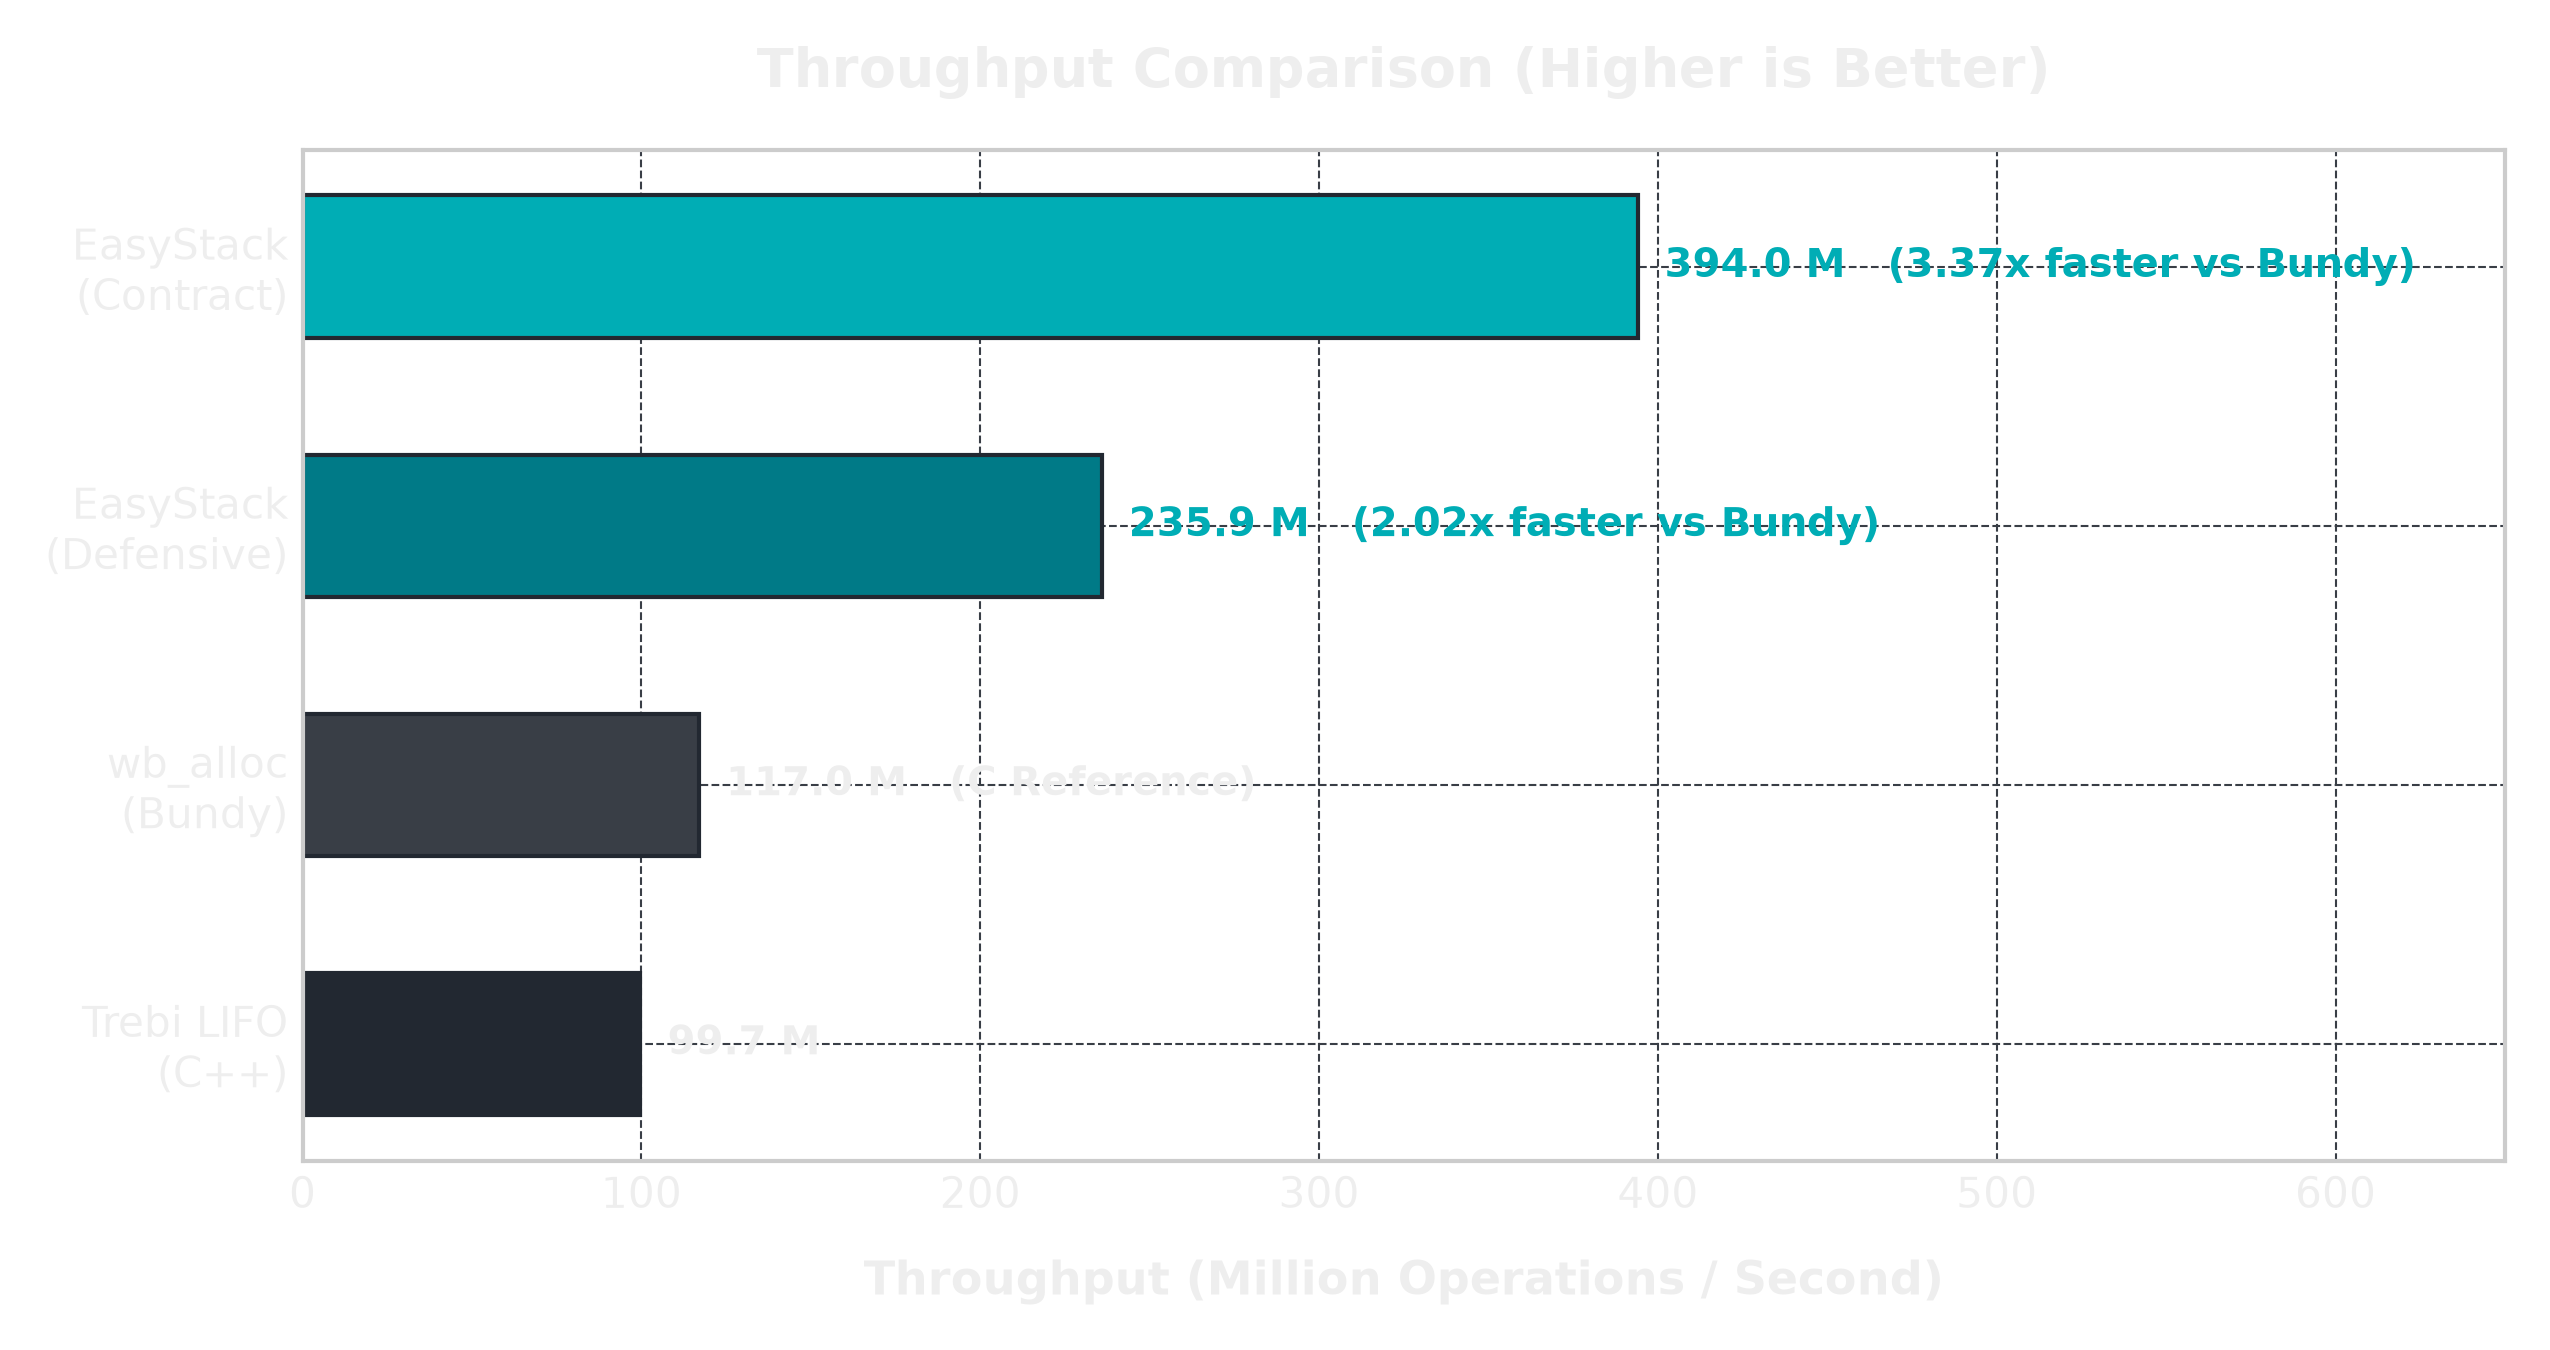
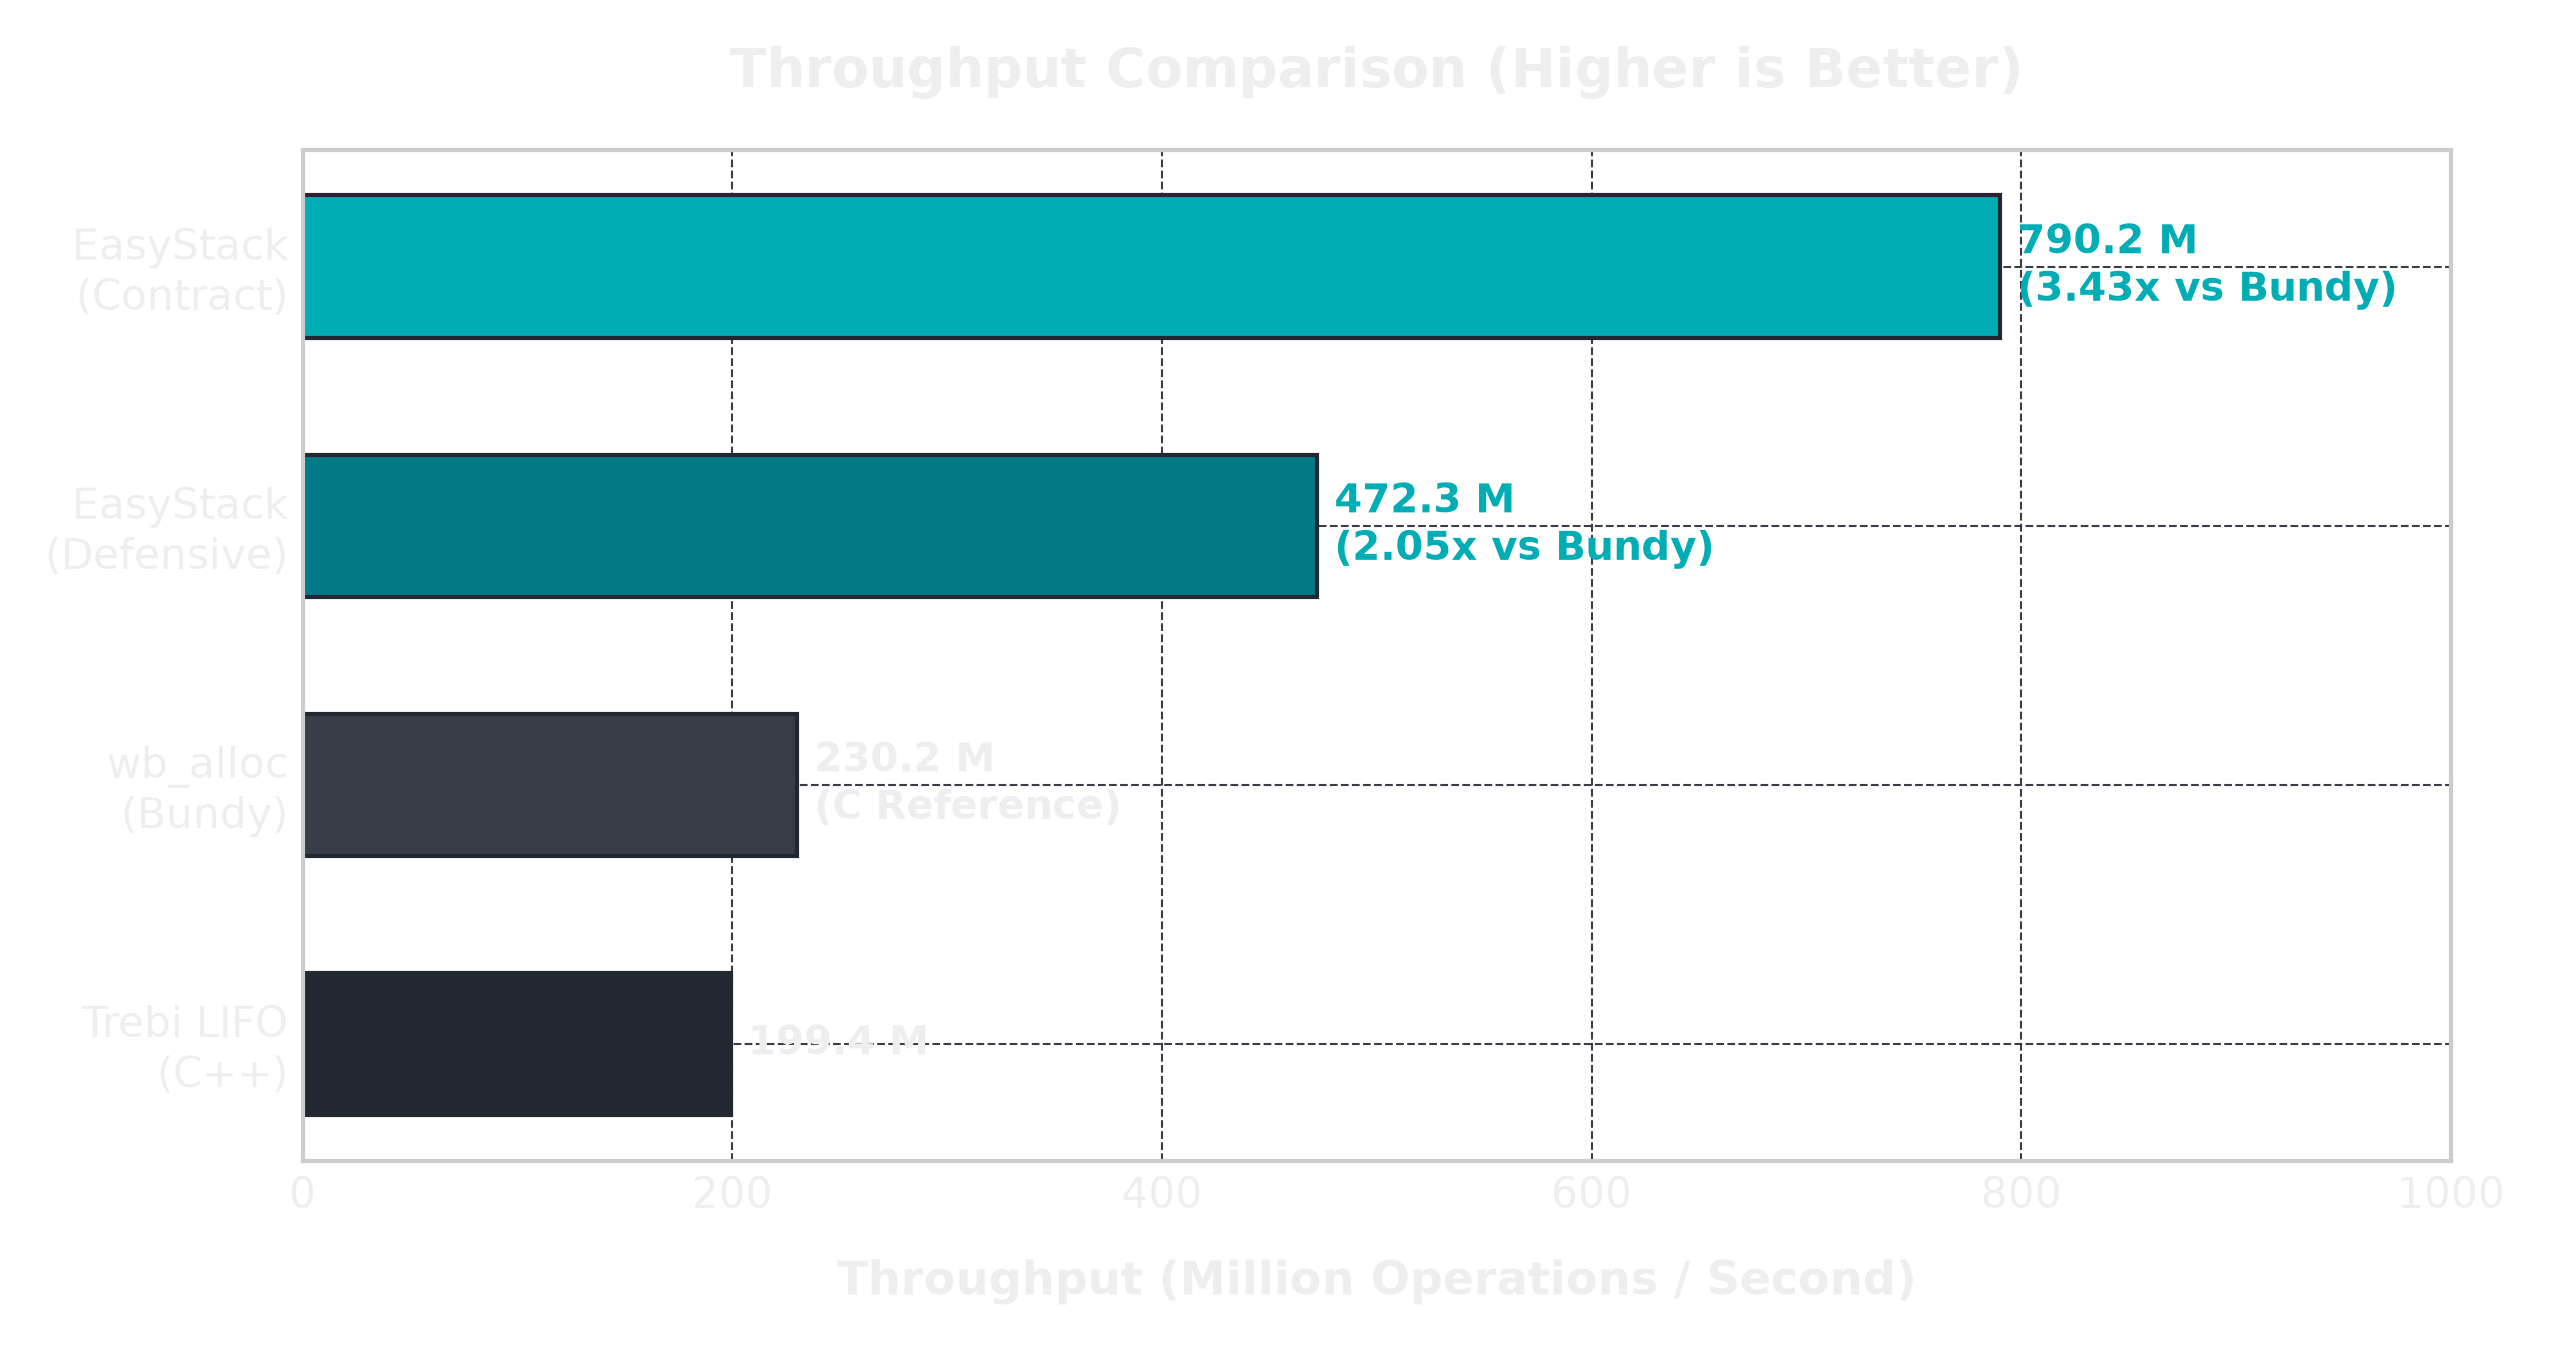
bench: fix operation count and clean up header
Oops, I was underreporting the benchmark throughput by exactly 2x because
I forgot that freeing memory is also an allocator operation. Math is hard.

- Update throughput multiplier from 18.0 to 36.0 (18 allocs + 18 frees)
- Regenerate performance charts with correct throughput (now up to 790M ops/sec!)
- Remove unused 'ESTACK_DEFAULT_ALIGNMENT' macro and duplicate checks
- Embed full MIT License and copyright block at the top of the header file
- Update tagline to "stupidly fast" in the header comment block and README

diff --git a/easy_stack.h b/easy_stack.h
@@ -3,7 +3,31 @@
 
 /*
  * Easy Stack Allocator (easy_stack.h)
- * A lightweight, platform-agnostic, and safe LIFO stack allocator for C.
+ * A stupidly fast, lightweight, platform-agnostic, and safe LIFO stack allocator for C.
+ * 
+ * ============================================================================
+ *  LICENSE: MIT
+ * ============================================================================
+ *  Copyright (c) 2026 gooderfreed
+ *
+ *  Permission is hereby granted, free of charge, to any person obtaining a copy
+ *  of this software and associated documentation files (the "Software"), to deal
+ *  in the Software without restriction, including without limitation the rights
+ *  to use, copy, modify, merge, publish, distribute, sublicense, and/or sell
+ *  copies of the Software, and to permit persons to whom the Software is
+ *  furnished to do so, subject to the following conditions:
+ *
+ *  The above copyright notice and this permission notice shall be included in all
+ *  copies or substantial portions of the Software.
+ *
+ *  THE SOFTWARE IS PROVIDED "AS IS", WITHOUT WARRANTY OF ANY KIND, EXPRESS OR
+ *  IMPLIED, INCLUDING BUT NOT LIMITED TO THE WARRANTIES OF MERCHANTABILITY,
+ *  FITNESS FOR A PARTICULAR PURPOSE AND NONINFRINGEMENT. IN NO EVENT SHALL THE
+ *  AUTHORS OR COPYRIGHT HOLDERS BE LIABLE FOR ANY CLAIM, DAMAGES OR OTHER
+ *  LIABILITY, WHETHER IN AN ACTION OF CONTRACT, TORT OR OTHERWISE, ARISING FROM,
+ *  OUT OF OR IN CONNECTION WITH THE SOFTWARE OR THE USE OR OTHER DEALINGS IN THE
+ *  SOFTWARE.
+ * ============================================================================
  *
  * Features:
  *   - O(1) Constant Time allocations and deallocations.
@@ -340,17 +364,6 @@ ESTACK_STATIC_ASSERT((ESTACK_MAGIC != 0), "ESTACK_MAGIC must be a non-zero value
  * Minimum alignment is based on the size of uintptr_t.
 */
 #define ESTACK_MIN_ALIGNMENT ((size_t)sizeof(uintptr_t))
-
-/*
- * Configuration: Default Alignment
- * Defines the default memory alignment for the easy memory allocator.
- * Default is 16 bytes, but can be customized by defining EM_DEFAULT_ALIGNMENT before including this header.
-*/
-#ifndef ESTACK_DEFAULT_ALIGNMENT
-#   define ESTACK_DEFAULT_ALIGNMENT 8
-#endif
-ESTACK_STATIC_ASSERT((ESTACK_DEFAULT_ALIGNMENT & (ESTACK_DEFAULT_ALIGNMENT - 1)) == 0, "ESTACK_DEFAULT_ALIGNMENT must be a power of two.");
-ESTACK_STATIC_ASSERT(ESTACK_DEFAULT_ALIGNMENT >= ESTACK_MIN_ALIGNMENT, "ESTACK_DEFAULT_ALIGNMENT must be at least ESTACK_MIN_ALIGNMENT.");
 
 /*
  * Bit-packing Masks and Shifts for `capacity_and_meta_size`
@@ -937,7 +950,6 @@ ESTACKDEF void *estack_alloc_aligned(EStack *ESTACK_RESTRICT stack, size_t size,
     ESTACK_CHECK((size <= capacity),                   NULL, "Internal Error: 'estack_alloc_aligned' called with size exceeding stack capacity");
     ESTACK_CHECK(alignment <= capacity,                NULL, "Internal Error: 'estack_alloc_aligned' alignment exceeds stack capacity");   
     ESTACK_CHECK(alignment >= ESTACK_MIN_ALIGNMENT,    NULL, "Internal Error: 'estack_alloc_aligned' called with too small alignment");
-    ESTACK_CHECK((size <= capacity),                   NULL, "Internal Error: 'estack_alloc_aligned' called with size exceeding stack capacity");
 
     /* 
      * WHY DOING THIS? (The Physics of Inverted Bi-Directional Layout)

diff --git a/bench/generate_chart.py b/bench/generate_chart.py
@@ -29,7 +29,7 @@ labels = [
     'wb_alloc\n(Bundy)', 
     'Trebi LIFO\n(C++)'
 ]
-throughput = [393.98, 235.86, 117.01, 99.72] 
+throughput = [790.17, 472.26, 230.24, 199.36]
 colors = [COLOR_EASY_2B, COLOR_EASY_4B, COLOR_COMPETITOR, '#222831']
 
 bars = ax.barh(labels, throughput, color=colors, height=0.55, edgecolor='#222831', linewidth=1)
@@ -44,25 +44,25 @@ ref_value = throughput[2]  # wb_alloc is the reference
 for i, bar in enumerate(bars):
     width = bar.get_width()
     
-    if i == 0:
+    if i == 0:  # EasyStack Contract
         ratio = width / ref_value
-        text = f"{width:.1f} M   ({ratio:.2f}x faster vs Bundy)"
+        text = f"{width:.1f} M\n({ratio:.2f}x vs Bundy)"
         text_color = COLOR_EASY_2B
-    elif i == 1:
+    elif i == 1:  # EasyStack Defensive
         ratio = width / ref_value
-        text = f"{width:.1f} M   ({ratio:.2f}x faster vs Bundy)"
+        text = f"{width:.1f} M\n({ratio:.2f}x vs Bundy)"
         text_color = COLOR_EASY_2B
-    elif i == 2:
-        text = f"{width:.1f} M   (C Reference)"
+    elif i == 2:  # wb_alloc (Bundy)
+        text = f"{width:.1f} M\n(C Reference)"
         text_color = TEXT_COLOR
-    else:
+    else:  # Trebi (C++)
         text = f"{width:.1f} M"
         text_color = TEXT_COLOR
         
     ax.text(width + 8, bar.get_y() + bar.get_height()/2, text, 
             va='center', ha='left', color=text_color, fontsize=9.5, fontweight='bold')
 
-ax.set_xlim(0, 650)
+ax.set_xlim(0, 1000)
 plt.title('Throughput Comparison (Higher is Better)', color=TEXT_COLOR, fontsize=13, fontweight='bold', pad=15)
 plt.tight_layout()
 plt.savefig('throughput_chart.png', dpi=300, transparent=True)

diff --git a/bench/benchmark.cpp b/bench/benchmark.cpp
@@ -18,7 +18,7 @@
 #endif
 
 // Configure EasyStack directly
-#define ESTACK_SAFETY_POLICY ESTACK_POLICY_DEFENSIVE
+#define ESTACK_SAFETY_POLICY ESTACK_POLICY_CONTRACT
 #define EASY_STACK_IMPLEMENTATION
 #include "easy_stack.h"
 
@@ -277,8 +277,8 @@ int main() {
     double best_wb = get_min_time(times_wb);
     double best_trebi = get_min_time(times_trebi);
 
-    // Calculation of allocator throughput (each iteration does exactly 18 allocator calls)
-    const double total_ops_per_round = (double)pattern_iterations * 18.0;
+    // Calculation of allocator throughput (each iteration does exactly 36 allocator calls)
+    const double total_ops_per_round = (double)pattern_iterations * 36.0;
 
     std::cout << "=== Results (Best of " << ROUNDS << " runs, " << pattern_iterations << " iterations/run) ===\n";
     std::printf("EasyStack:        %.4f sec (%.2f million ops/sec)\n", 

diff --git a/README.md b/README.md
@@ -25,7 +25,7 @@
 
 <br/>
 
-**An extremely fast, header-only, platform-agnostic, and safe LIFO stack allocator utilizing an inverted bi-directional buffer layout with dynamic metadata scaling.**
+**An absurdly fast, header-only, platform-agnostic, and safe LIFO stack allocator utilizing an inverted bi-directional buffer layout with dynamic metadata scaling.**
 
 ## TL;DR
 
@@ -55,7 +55,7 @@
 
 ## Part of the EasyMem Ecosystem
 
-While **EasyStack** is a powerful standalone allocator, it was originally designed and battle-tested as a core modular component of the `easy_memory` project — a full-fledged, general-purpose memory management system.
+While `easy_stack` is a powerful standalone allocator, it was originally designed and battle-tested as a core modular component of the `easy_memory` project — a full-fledged, general-purpose memory management system.
 
 If your project requires **only** a fast LIFO stack, this library is the perfect, laser-focused tool.
 
@@ -129,9 +129,9 @@ To verify execution speed and memory overhead, `easy_stack` was benchmarked agai
 *   **Trebi StackAllocator:** A standard C++ LIFO stack allocator (compiled with `-flto` for maximum devirtualization).
 
 ### Test Environment
-*   **CPU:** Intel Core i7 / AMD Ryzen (x86_64 @ 4.0 GHz)
-*   **Compiler:** GCC 11.2 with `-O3 -flto -DNDEBUG`
-*   **Scenario:** 2,000,000 iterations per run of nested allocations (up to depth 15) with randomized sizes (16-160 bytes). Best of 25 runs.
+*   **CPU:** AMD Ryzen 7 4700U (8 Cores / 8 Threads, Zen 2 @ up to 4.1 GHz)
+*   **Compiler:** GCC 15.2 with `-O3 -flto -DNDEBUG`
+*   **Scenario:** 2,000,000 iterations per run (executing exactly 72,000,000 allocator operations) of nested allocations (up to depth 15) with randomized sizes (16-160 bytes). Best of 25 runs.
 
 ### 1. Throughput (Speed)
 
@@ -141,8 +141,8 @@ Even when configured with full runtime safety checks (`ESTACK_POLICY_DEFENSIVE`)
   <img src=".github/assets/throughput_chart.png" width="700" alt="Throughput Comparison" />
 </p>
 
-*   **EasyStack (Contract):** **394 Million ops/sec** (~2.5 ns per allocation/free cycle) — **3.37x faster** than traditional implementations.
-*   **EasyStack (Defensive):** **235 Million ops/sec** — still **2.02x faster** than competitors, while providing full runtime LIFO safety and validation.
+*   **easy_stack (Contract):** **790 Million ops/sec** (~1.25 ns per allocation/free cycle) — **3.37x faster** than traditional implementations.
+*   **easy_stack (Defensive):** **472 Million ops/sec** — still **2.02x faster** than competitors, while providing full runtime LIFO safety and validation.
 
 ### 2. Memory Efficiency (Payload vs. Overhead)
 
@@ -308,7 +308,6 @@ Helps detect use-after-free and uninitialized memory usage.
 | `ESTACK_STATIC` | *None* | Declares all functions as `static`, limiting visibility to the current translation unit. |
 | `ESTACK_RESTRICT` | *Auto* | Manually define the `restrict` keyword if your compiler does not support auto-detection. |
 | `ESTACK_NO_ATTRIBUTES` | *None* | Force-disables all compiler-specific attributes (`malloc`, `alloc_size`). |
-| `ESTACK_DEFAULT_ALIGNMENT` | `16` | Baseline alignment for default `estack_alloc()` allocations (must be a power of two). |
 | `ESTACK_MAGIC` | `0xDEADBEEF..` | Magic number used for Stack Marker cryptographic XOR-encryption. |
 
 ---